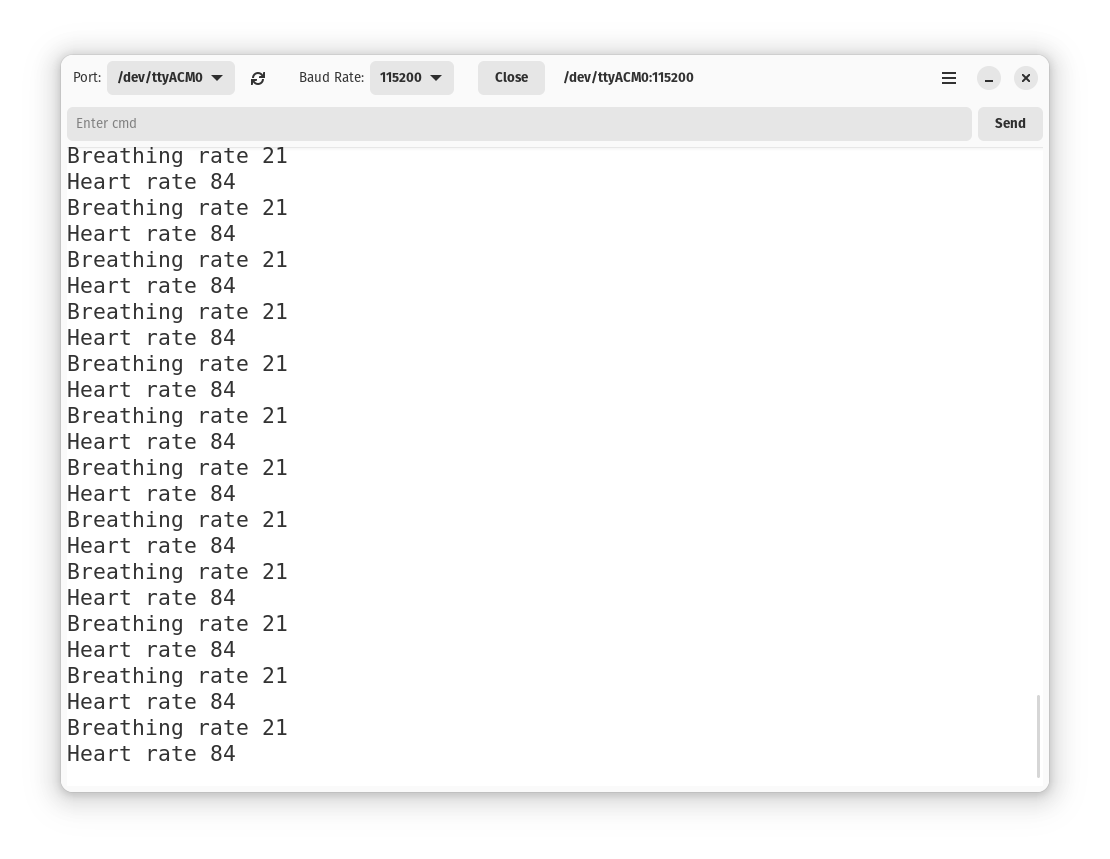
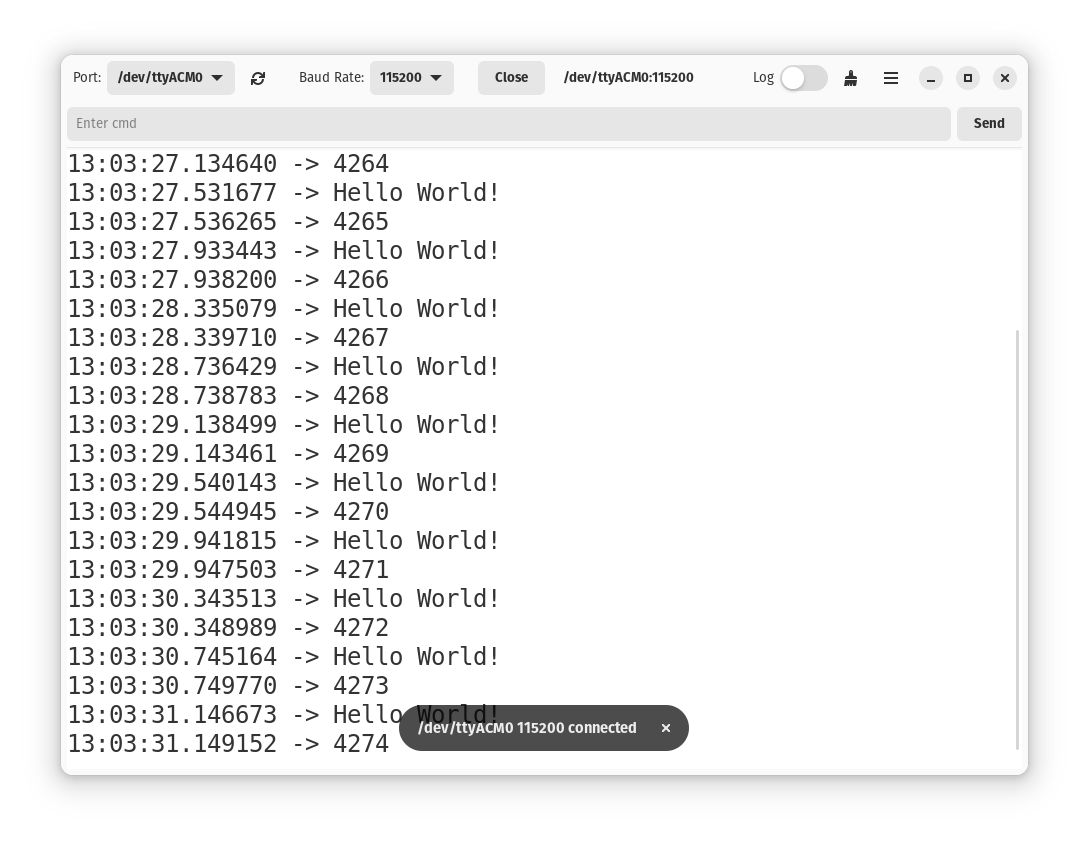
log writing works

diff --git a/src/window.py b/src/window.py
@@ -117,6 +117,9 @@ class TaunoMonitorWindow(Adw.ApplicationWindow):
         log_action.connect("activate", self.btn_log)
         self.add_action(log_action)
         self.write_logs = False
+        self.log_file_exist = False
+        self.log_file_path = ""
+        self.file_handle = None  # opened log file
 
         # Get Serial instance, open later
         self.tauno_serial = TaunoSerial(window_reference=self)
@@ -168,13 +171,27 @@ class TaunoMonitorWindow(Adw.ApplicationWindow):
             print("Scan serial ports error: ",e)
             return
 
-    # If log switch is activated
+
     def btn_log(self, switch, _gparam):
+        """ Logging switch action """
+        current_datetime = datetime.now().strftime("%Y-%m-%d-%H-%M-%S")
+
         if self.log_switch.props.active:
+            print("switch active")
             self.write_logs = True
+            # Does log file exists?
+            if self.log_file_exist == False:
+                folder = self.settings.get_string("log-folder")
+                self.log_file_path = folder + "/tauno-monitor_log-" + current_datetime
+                # Create log file
+                f = open(self.log_file_path, "x")
+                self.log_file_exist = True
+
+            self.write_data_to_log("\nTauno-Monitor log started: " + current_datetime + "\n")
         else:
             self.write_logs = False
-        #print(self.write_logs)
+            self.close_log_file()
+
 
 
     def btn_guide(self, action, _):
@@ -331,12 +348,13 @@ sudo usermod -a -G plugdev $USER")
                     # add time when prev char was newline
                     if self.prev_char == '\n':
                         self.text_buffer.insert(self.text_iter_end, current_time)
+                        self.write_data_to_log(current_time)
 
                 if data.decode() != '\r': # ignore \r - is it good idea??
                     # Store char
                     self.prev_char = data.decode()
                     self.text_buffer.insert(self.text_iter_end, data.decode())
-                    self.logging(data.decode())
+                    self.write_data_to_log(data.decode())
 
 
             self.input_text_view.scroll_to_mark(self.text_mark_end, 0, False, 0, 0)
@@ -344,17 +362,23 @@ sudo usermod -a -G plugdev $USER")
             print("update error:", ex)
             return
 
-    def logging(self, char):
-        """ Write data to file """
-        # get folder
-        # get filename
+
+    def write_data_to_log(self, data):  # data == char
+        """ Write data to log file """
         if self.write_logs == True:
-            #print("write logs")
-            folder = self.settings.get_string("log-folder")
-            print(folder)
-            print(char) # one char
-        else:
-            pass
+            if self.file_handle is None:
+                # Open the file the first time the method is called
+                self.file_handle = open(self.log_file_path, 'a')
+            # Write data to the file
+            self.file_handle.write(data)  # + '\n'
+
+
+    def close_log_file(self):
+        """ Close the log file """
+        if self.file_handle is not None:
+            self.file_handle.close()
+            self.file_handle = None
+
 
     def btn_send(self, action, _):
         """ Button Send action """

diff --git a/src/main.py b/src/main.py
@@ -75,7 +75,7 @@ class TaunoMonitorApplication(Adw.Application):
         # Get saved log folder
         self.log_folder_path = self.settings.get_string("log-folder")
         # If default get user home
-        if self.log_folder_path == '/home':
+        if self.log_folder_path == '~':
             self.log_folder_path = os.path.expanduser("~")
 
 
@@ -240,37 +240,41 @@ class TaunoMonitorApplication(Adw.Application):
 
 
     def select_log_folder_button_action(self, widget):
-        #print("select_log_folder_button_action")
+        """ Button to select logging folder action """
         self.filedialog.select_folder(
             self.preferences, cancellable=None,
             callback=self.on_filedialog_select_folder)
 
+
     def on_filedialog_select_folder(self, filedialog, task):
+        """ Dialog to select logging folder """
         try:
+            # Folder selection dialog
             folder = filedialog.select_folder_finish(task)
         except GLib.GError:
             return
 
         if folder is not None:
             self.log_folder_path = folder.get_path()
-            #print(self.log_folder_path)
 
-            # if not a folder
+            # If not a folder
             if (os.path.exists(self.log_folder_path) == False):
                 self.win.toast_overlay.add_toast(Adw.Toast(title=f"{self.log_folder_path} is not a folder!"))
-            # is writeable?
+
+            # Is it writeable?
             test_file_path = self.log_folder_path+'/tauno_monitor_test.txt'
-            print(test_file_path)
+            # We create test file and then will remove it
             try:
                 with open(test_file_path, 'w') as file:
                     file.write('hello!')
                     file.close()
+                    os.remove(test_file_path)
             except IOError as error:
                 self.win.toast_overlay.add_toast(Adw.Toast(title=f"No write permission on this directory!"))
 
-            # update label
+            # Update label on preferences
             self.entry_buffer.set_text(self.log_folder_path, len(self.log_folder_path))
-            # update settings
+            # Update saved settings
             self.settings.set_string("log-folder", self.log_folder_path)
 
 

diff --git a/README.md b/README.md
@@ -21,13 +21,13 @@ You may also need to install udev rules. PlatformIO have a good [instructions](h
 
 ## Screenshots
 
-![Dark mode](data/screenshots/dark_2024-04-20.png)
+![Dark mode](data/screenshots/dark.png)
 
-![Light mode](data/screenshots/light_2024-04-20.png)
+![Light mode](data/screenshots/light.png)
 
-![About window](data/screenshots/abot_2024-04-20.png)
+![About window](data/screenshots/abot.png)
 
-![Preferences window](data/screenshots/pref_2024-04-20.png)
+![Preferences window](data/screenshots/pref.png)
 
 ## Install
 
